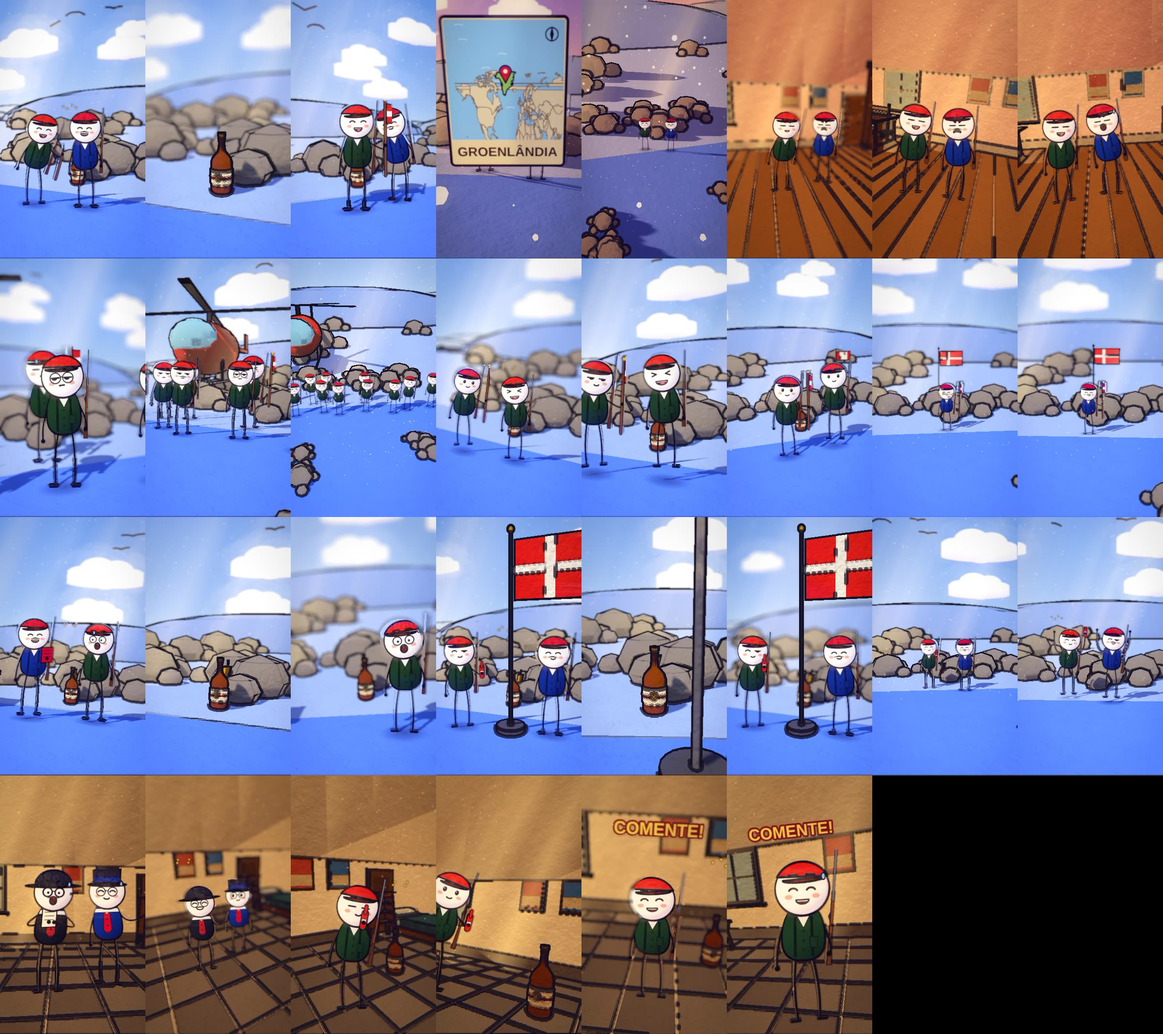
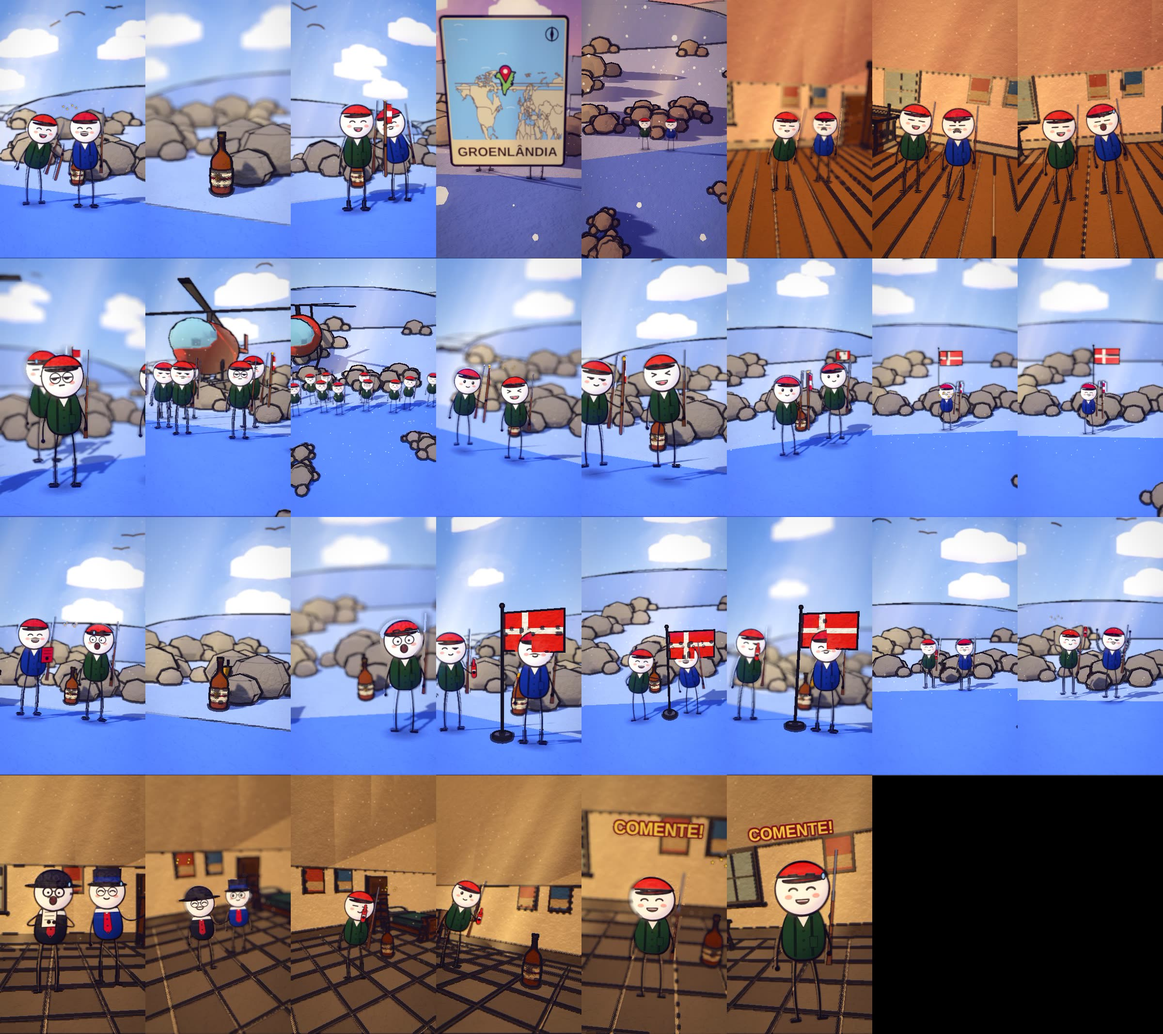
Banquinho b8 enquadramento automatico
Claude-Session: https://claude.ai/code/session_01HE8Dy3UcXXZZMLa7uzjNJD

Changed region(s): [[0.375, 0.4953, 0.75, 0.7739], [0.25, 0.8049, 0.5, 1.0], [0.3438, 0.7739, 0.375, 0.8049]]

diff --git a/ferramenta-shorts/stories/uisque1984/spec.js b/ferramenta-shorts/stories/uisque1984/spec.js
@@ -20,10 +20,10 @@ const SPEC = {
     S('b4', A[4], A[5] - 1, X, "day", { h: 2.3, d0: 12.1, d1: 11.5, az0: 16, az1: 30, cx: 0.0, cz: -0.6, hero: { hero: 'any', frame: 'medium', minH: 0.07, main: 2 }, trans: 'dissolve', actors: [pp(X, "CAN", 0, -1.0, 1.3, "smile", { over: { hold: "flag" }, pose: 'cheer', inter: { k: 'hop', a: Math.round(A[4] + (A[5] - 1 - (A[4])) * 0.12), b: Math.round(A[4] + (A[5] - 1 - (A[4])) * 0.82), dir: 1, n: 2, ph: 0 } }), pp(X, "CAN", 1, 1.0, 1.0, "laugh", { pose: 'cheer', inter: { k: 'hop', a: Math.round(A[4] + (A[5] - 1 - (A[4])) * 0.2), b: Math.round(A[4] + (A[5] - 1 - (A[4])) * 0.9), dir: -1, n: 2, ph: 3.14 } })], props: [{ asset: "kit/bandeira_canada", at: [X + 7.0, -14.0], s: 0.9, fixo: true, drop: false }, { asset: "kit/whisky", at: [X + 0.0, -1.2], s: 1.2, fixo: true, drop: false }, { asset: "kit/tequila_bolt", at: [X + 0.0, -2.3], s: 1.0, drop: false }], fx: [{ k: 'stars', a: A[4] + 6, b: A[4] + 40, at: [X + 0.0, DK + 1.6, -0.7], s: 0.8 }, { k: 'birds', a: A[4], b: A[5] - 1, at: [X, DK + 6.0, -30], n: 5, dir: 1, off: 8 }] }),
     { ...S('b5', A[5], A[6] - 1, X, "day", { h: 2.4, d0: 21.0, d1: 20.0, el: 11, fov: 46, cx: 0.0, cz: -2.0, hero: { hero: 'none', wide: true }, vary: false, nocut: true, trans: 'dissolve', actors: [_MA(pp(X, "DIN", 0, 0.0, -0.4, "smug", { over: { hold: "flag" } }), { gests: [[WS(77) - 8, WS(77) + 46, 'point']] })], props: [{ asset: "kit/bandeira_dinamarca", at: [X + 0.0, -8.9], s: 1.2, fixo: true, drop: false }], fx: [{ k: 'birds', a: A[5], b: A[6] - 1, at: [X, DK + 7.5, -30], n: 6, dir: 1, off: 15 }, { k: "stars", a: A[5] + 30, b: A[5] + 56, at: [X, DK + 0.5, 1.2], s: 1.1 }] }), nocut: true },
     S('b6', A[6], Math.round(A[6] + (A[7] - 1 + 1 - (A[6])) * 0.36) - 1, X, "day", { h: 2.3, d0: 12.1, d1: 11.5, az0: -14, az1: 4, cx: 0.0, cz: -0.6, hero: { hero: 'any', frame: 'medium', minH: 0.07, main: 2 }, trans: 'dissolve', actors: [pp(X, "DIN", 0, -1.0, 1.3, "grin", { over: { hold: "paper" }, inter: { k: 'step', a: Math.round(A[6] + (A[7] - 1 - (A[6])) * 0.12), b: Math.round(A[6] + (A[7] - 1 - (A[6])) * 0.82), dir: 1, n: 2, ph: 0 } }), pp(X, "CAN", 0, 1.0, 1.0, "shock", { pose: 'react', inter: { k: 'nod', a: Math.round(A[6] + (A[7] - 1 - (A[6])) * 0.2), b: Math.round(A[6] + (A[7] - 1 - (A[6])) * 0.9), dir: -1, n: 2, ph: 3.14 } })], props: [{ asset: "kit/whisky", at: [X + 0.0, -1.2], s: 1.2, fixo: true, drop: false }, { asset: "mk/Crate_Metal", at: [X + -3.1, 0.2], s: 1.1 }, { asset: "kit/tequila_bolt", at: [X + 0.0, -2.3], s: 1.0, drop: false }], fx: [{ k: 'stars', a: A[6] + 6, b: A[6] + 40, at: [X + 0.0, DK + 1.6, -0.7], s: 0.8 }, { k: 'birds', a: A[6], b: A[7] - 1, at: [X, DK + 4.5, -30], n: 4, dir: -1, off: 8 }] }), { ...S('b6_d', Math.round(A[6] + (A[7] - 1 + 1 - (A[6])) * 0.36), Math.round(A[6] + (A[7] - 1 + 1 - (A[6])) * 0.6) - 1, X, "day", { h: 2.3, d0: 12.1, d1: 11.5, az0: -14, az1: 4, cx: 0.0, cz: -0.6, hero: { hero: 'none', detalhe: true }, trans: 'cut', actors: [pp(X, "DIN", 0, -1.0, 1.3, "grin", { over: { hold: "paper" } }), pp(X, "CAN", 0, 1.0, 1.0, "shock", { pose: 'react' })], props: [{ asset: "kit/whisky", at: [X + 0.0, -1.2], s: 1.2, drop: false, fixo: true, drop: false }, { asset: "mk/Crate_Metal", at: [X + -3.1, 0.2], s: 1.1, drop: false }, { asset: "kit/tequila_bolt", at: [X + 0.0, -2.3], s: 1.0, drop: false }], fx: [{ k: 'stars', a: A[6] + 6, b: A[6] + 40, at: [X + 0.0, DK + 1.6, -0.7], s: 0.8 }, { k: 'birds', a: A[6], b: A[7] - 1, at: [X, DK + 4.5, -30], n: 4, dir: -1, off: 8 }] }), cam: [{ f: Math.round(A[6] + (A[7] - 1 + 1 - (A[6])) * 0.36), at: [X + 0.0, DK + 0.9, -1.2], d: 4.2, az: -14, el: 10, fov: 44 }, { f: Math.round(A[6] + (A[7] - 1 + 1 - (A[6])) * 0.6) - 1, at: [X + 0.0, DK + 0.9, -1.2], d: 3.4, az: -8, el: 9, fov: 44 }], nocut: true, vary: false, glide: true, glideN: 34 }, { ...S('b6_v', Math.round(A[6] + (A[7] - 1 + 1 - (A[6])) * 0.6), A[7] - 1, X, "day", { h: 2.3, d0: 12.1, d1: 11.5, az0: -14, az1: 4, cx: 0.0, cz: -0.6, hero: { hero: 'any', frame: 'medium', minH: 0.07, main: 2 }, trans: 'cut', actors: [pp(X, "DIN", 0, -1.0, 1.3, "grin", { over: { hold: "paper" }, inter: { k: 'step', a: Math.round(A[6] + (A[7] - 1 - (A[6])) * 0.12), b: Math.round(A[6] + (A[7] - 1 - (A[6])) * 0.82), dir: 1, n: 2, ph: 0 } }), pp(X, "CAN", 0, 1.0, 1.0, "shock", { pose: 'react', inter: { k: 'nod', a: Math.round(A[6] + (A[7] - 1 - (A[6])) * 0.2), b: Math.round(A[6] + (A[7] - 1 - (A[6])) * 0.9), dir: -1, n: 2, ph: 3.14 } })], props: [{ asset: "kit/whisky", at: [X + 0.0, -1.2], s: 1.2, drop: false, fixo: true, drop: false }, { asset: "mk/Crate_Metal", at: [X + -3.1, 0.2], s: 1.1, drop: false }, { asset: "kit/tequila_bolt", at: [X + 0.0, -2.3], s: 1.0, drop: false }], fx: [{ k: 'stars', a: A[6] + 6, b: A[6] + 40, at: [X + 0.0, DK + 1.6, -0.7], s: 0.8 }, { k: 'birds', a: A[6], b: A[7] - 1, at: [X, DK + 4.5, -30], n: 4, dir: -1, off: 8 }] }), glide: true, glideN: 34 },
-    S('b7', A[7], Math.round(A[7] + (A[8] - 1 + 1 - (A[7])) * 0.36) - 1, X, "day", { h: 2.5, d0: 12.1, d1: 11.5, az0: 24, az1: 10, cx: 0.0, cz: -0.6, vary: false, hero: { hero: 'any', frame: 'medium', minH: 0.07, main: 2 }, trans: 'dissolve', actors: [_MA(pp(X, "CAN", 0, -1.0, 1.3, "smug", { over: { hold: "bottle" }, inter: { k: 'lean', a: Math.round(A[7] + (A[8] - 1 - (A[7])) * 0.12), b: Math.round(A[7] + (A[8] - 1 - (A[7])) * 0.82), dir: 1, n: 2, ph: 0 } }), { gests: [[WS(101) - 8, Math.max(WS(101) + 14, WS(104) - 5), 'point'], [WS(104) - 8, WS(104) + 46, 'reach']] }), pp(X, "DIN", 0, 1.0, 1.0, "smug", { pose: 'talk', inter: { k: 'lean', a: Math.round(A[7] + (A[8] - 1 - (A[7])) * 0.2), b: Math.round(A[7] + (A[8] - 1 - (A[7])) * 0.9), dir: -1, n: 2, ph: 3.14 } })], props: [{ asset: "kit/bandeira_dinamarca", at: [X + 0.6, 1.0], s: 1.5, fixo: true, drop: false }, { asset: "kit/whisky", at: [X + 0.0, -1.2], s: 1.2, fixo: true, drop: false }, { asset: "kit/tequila_bolt", at: [X + 0.0, -2.3], s: 1.0, drop: false }], fx: [{ k: 'stars', a: A[7] + 6, b: A[7] + 40, at: [X + 0.0, DK + 1.6, -0.7], s: 0.8 }] }), { ...S('b7_d', Math.round(A[7] + (A[8] - 1 + 1 - (A[7])) * 0.36), Math.round(A[7] + (A[8] - 1 + 1 - (A[7])) * 0.6) - 1, X, "day", { h: 2.5, d0: 12.1, d1: 11.5, az0: 24, az1: 10, cx: 0.0, cz: -0.6, vary: false, hero: { hero: 'none', detalhe: true }, trans: 'cut', actors: [_MA(pp(X, "CAN", 0, -1.0, 1.3, "smug", { over: { hold: "bottle" } }), { gests: [[WS(101) - 8, Math.max(WS(101) + 14, WS(104) - 5), 'point'], [WS(104) - 8, WS(104) + 46, 'reach']] }), pp(X, "DIN", 0, 1.0, 1.0, "smug", { pose: 'stand' })], props: [{ asset: "kit/bandeira_dinamarca", at: [X + 0.6, 1.0], s: 1.5, drop: false, fixo: true, drop: false }, { asset: "kit/whisky", at: [X + 0.0, -1.2], s: 1.2, drop: false, fixo: true, drop: false }, { asset: "kit/tequila_bolt", at: [X + 0.0, -2.3], s: 1.0, drop: false }], fx: [{ k: 'stars', a: A[7] + 6, b: A[7] + 40, at: [X + 0.0, DK + 1.6, -0.7], s: 0.8 }] }), cam: [{ f: Math.round(A[7] + (A[8] - 1 + 1 - (A[7])) * 0.36), at: [X + 0.0, DK + 0.9, -1.2], d: 4.2, az: -14, el: 10, fov: 44 }, { f: Math.round(A[7] + (A[8] - 1 + 1 - (A[7])) * 0.6) - 1, at: [X + 0.0, DK + 0.9, -1.2], d: 3.4, az: -8, el: 9, fov: 44 }], nocut: true, vary: false, glide: true, glideN: 34 }, { ...S('b7_v', Math.round(A[7] + (A[8] - 1 + 1 - (A[7])) * 0.6), A[8] - 1, X, "day", { h: 2.5, d0: 12.1, d1: 11.5, az0: 24, az1: 10, cx: 0.0, cz: -0.6, vary: false, hero: { hero: 'any', frame: 'medium', minH: 0.07, main: 2 }, trans: 'cut', actors: [_MA(pp(X, "CAN", 0, -1.0, 1.3, "smug", { over: { hold: "bottle" }, inter: { k: 'lean', a: Math.round(A[7] + (A[8] - 1 - (A[7])) * 0.12), b: Math.round(A[7] + (A[8] - 1 - (A[7])) * 0.82), dir: 1, n: 2, ph: 0 } }), { gests: [[WS(101) - 8, Math.max(WS(101) + 14, WS(104) - 5), 'point'], [WS(104) - 8, WS(104) + 46, 'reach']] }), pp(X, "DIN", 0, 1.0, 1.0, "smug", { pose: 'talk', inter: { k: 'lean', a: Math.round(A[7] + (A[8] - 1 - (A[7])) * 0.2), b: Math.round(A[7] + (A[8] - 1 - (A[7])) * 0.9), dir: -1, n: 2, ph: 3.14 } })], props: [{ asset: "kit/bandeira_dinamarca", at: [X + 0.6, 1.0], s: 1.5, drop: false, fixo: true, drop: false }, { asset: "kit/whisky", at: [X + 0.0, -1.2], s: 1.2, drop: false, fixo: true, drop: false }, { asset: "kit/tequila_bolt", at: [X + 0.0, -2.3], s: 1.0, drop: false }], fx: [{ k: 'stars', a: A[7] + 6, b: A[7] + 40, at: [X + 0.0, DK + 1.6, -0.7], s: 0.8 }] }), glide: true, glideN: 34 },
+    S('b7', A[7], A[8] - 1, X, "day", { h: 2.5, d0: 12.1, d1: 11.5, az0: 24, az1: 10, cx: 0.0, cz: -0.6, vary: false, hero: { hero: 'any', frame: 'medium', minH: 0.07, main: 2 }, trans: 'dissolve', actors: [_MA(pp(X, "CAN", 0, -1.0, 1.3, "smug", { over: { hold: "bottle" }, inter: { k: 'lean', a: Math.round(A[7] + (A[8] - 1 - (A[7])) * 0.12), b: Math.round(A[7] + (A[8] - 1 - (A[7])) * 0.82), dir: 1, n: 2, ph: 0 } }), { gests: [[WS(101) - 8, Math.max(WS(101) + 14, WS(104) - 5), 'point'], [WS(104) - 8, WS(104) + 46, 'reach']] }), pp(X, "DIN", 0, 1.0, 1.0, "smug", { pose: 'talk', inter: { k: 'lean', a: Math.round(A[7] + (A[8] - 1 - (A[7])) * 0.2), b: Math.round(A[7] + (A[8] - 1 - (A[7])) * 0.9), dir: -1, n: 2, ph: 3.14 } })], props: [{ asset: "kit/bandeira_dinamarca", at: [X + 0.6, 1.0], s: 0.9, fixo: true, drop: false }, { asset: "kit/whisky", at: [X + 0.0, -1.2], s: 1.2, fixo: true, drop: false }, { asset: "kit/tequila_bolt", at: [X + 0.0, -2.3], s: 1.0, drop: false }], fx: [{ k: 'stars', a: A[7] + 6, b: A[7] + 40, at: [X + 0.0, DK + 1.6, -0.7], s: 0.8 }] }),
     { ...S('b8', A[8], A[9] - 1, X, "day", { h: 2.4, d0: 20, d1: 16, el: 5, fov: 46, cx: 0.0, cz: -1.5, hero: { hero: 'none', wide: true }, vary: false, nocut: true, trans: 'dissolve', actors: [_MA(pp(X, "CAN", 0, -1.0, -0.4, "smug", { over: { hold: "bottle" } }), { gests: [[WS(122) - 8, WS(122) + 46, 'up']] }), _MA(pp(X, "DIN", 0, 1.0, 0.2, "smug"), { gests: [[WS(122) - 6, WS(122) + 46, 'up']] })], props: [{ asset: "kit/whisky", at: [X + 0.0, -2.3], s: 1.0, drop: false }], fx: [{ k: 'birds', a: A[8], b: A[9] - 1, at: [X, DK + 7.5, -30], n: 6, dir: 1, off: 8 }, { k: "stars", a: WS(122) + 3, b: WS(122) + 30, at: [X + -1.0, DK + 2.6, 1.7], s: 0.6 }] }), nocut: true },
     S('b9', A[9], A[10] - 1, X_hall, "study", { h: 2.3, d0: 7.3, d1: 6.86, fov: 57.0, az0: -13, az1: -7, vary: false, hero: { hero: 'any', frame: 'medium', minH: 0.07, main: 2 }, trans: 'dissolve', actors: [_MA(pp(X_hall, "PRE", 0, -1.0, 1.3, "relief", { over: { hold: "paper" }, inter: { k: 'step', a: Math.round(A[9] + (A[10] - 1 - (A[9])) * 0.12), b: Math.round(A[9] + (A[10] - 1 - (A[9])) * 0.82), dir: 1, n: 2, ph: 0 } }), { gests: [[WS(135) - 8, WS(135) + 46, 'point']] }), pp(X_hall, "MIN", 0, 1.0, 1.0, "smile", { pose: 'talk', inter: { k: 'nod', a: Math.round(A[9] + (A[10] - 1 - (A[9])) * 0.2), b: Math.round(A[9] + (A[10] - 1 - (A[9])) * 0.9), dir: -1, n: 2, ph: 3.14 } })], props: [{ asset: "kit/room_europa_stone", at: [X_hall, 0], s: 1, drop: false }, { asset: "mk/Cabinet", at: [X_hall + -7.2, -3.3], s: 2.3, drop: false }, { asset: "mk/Bed_Twin1", at: [X_hall + 7.0, -2.4], s: 2.1, drop: false }, { asset: "mk/Nightstand_Shelf", at: [X_hall + 4.6, -3.2], s: 2.2, drop: false }, { asset: "mk/Stool", at: [X_hall + -4.8, -2.8], s: 2.2, drop: false }, { asset: "mk/Crate_Metal", at: [X_hall + -7.4, 0.8], s: 2.0, drop: false }], fx: [{ k: "stars", a: WS(135) + 3, b: WS(135) + 30, at: [X_hall + -1.0, DK + 2.6, 1.7], s: 0.6 }] }),
-    S('b10', A[10], A[11] - 1, X_hall, "study", { h: 2.5, d0: 7.2, d1: 6.77, fov: 50.5, az0: -2, az1: 3, cx: 1.2, cz: 0.1, hero: { hero: 'any', frame: 'medium', minH: 0.07, main: 1 }, trans: 'dissolve', actors: [pp(X_hall, "CAN", 0, 0.0, 1.3, "smile", { over: { hold: "bottle" }, pose: 'cheer' })], props: [{ asset: "kit/room_europa_stone", at: [X_hall, 0], s: 1, drop: false }, { asset: "mk/Cabinet", at: [X_hall + -7.2, -3.3], s: 2.3, drop: false }, { asset: "mk/Bed_Twin1", at: [X_hall + 7.0, -2.4], s: 2.1, drop: false }, { asset: "mk/Nightstand_Shelf", at: [X_hall + 4.6, -3.2], s: 2.2, drop: false }, { asset: "mk/Stool", at: [X_hall + -4.8, -2.8], s: 2.2, drop: false }, { asset: "mk/Crate_Metal", at: [X_hall + -7.4, 0.8], s: 2.0, drop: false }, { asset: "kit/whisky", at: [X_hall + 2.4, 0.2], s: 1.3, fixo: true, drop: false }], fx: [{ k: 'stars', a: A[10] + 6, b: A[10] + 40, at: [X_hall + 2.4, DK + 1.6, 0.7], s: 0.8 }] }),
+    S('b10', A[10], A[11] - 1, X_hall, "study", { h: 2.5, d0: 7.2, d1: 6.77, fov: 65.2, az0: -2, az1: 3, cx: 1.2, cz: 0.1, hero: { hero: 'any', frame: 'medium', minH: 0.07, main: 1 }, trans: 'dissolve', actors: [pp(X_hall, "CAN", 0, 0.0, 1.3, "smile", { over: { hold: "bottle" }, pose: 'cheer' })], props: [{ asset: "kit/room_europa_stone", at: [X_hall, 0], s: 1, drop: false }, { asset: "mk/Cabinet", at: [X_hall + -7.2, -3.3], s: 2.3, drop: false }, { asset: "mk/Bed_Twin1", at: [X_hall + 7.0, -2.4], s: 2.1, drop: false }, { asset: "mk/Nightstand_Shelf", at: [X_hall + 4.6, -3.2], s: 2.2, drop: false }, { asset: "mk/Stool", at: [X_hall + -4.8, -2.8], s: 2.2, drop: false }, { asset: "mk/Crate_Metal", at: [X_hall + -7.4, 0.8], s: 2.0, drop: false }, { asset: "kit/whisky", at: [X_hall + 2.4, 0.2], s: 1.3, fixo: true, drop: false }], fx: [{ k: 'stars', a: A[10] + 6, b: A[10] + 40, at: [X_hall + 2.4, DK + 1.6, 0.7], s: 0.8 }] }),
     S('b11', A[11], A[12] - 1, X_hall, "study", { h: 2.4, d0: 6.4, d1: 5.6, az0: -10, az1: -5, hero: { hero: 'any', frame: 'medium', minH: 0.07, main: 1 }, trans: 'dissolve', actors: [pp(X_hall, "CAN", 0, 0.0, 1.3, "grin", { pose: 'talk' })], props: [{ asset: "kit/room_europa_stone", at: [X_hall, 0], s: 1, drop: false }, { asset: "mk/Cabinet", at: [X_hall + -7.2, -3.3], s: 2.3, drop: false }, { asset: "mk/Bed_Twin1", at: [X_hall + 7.0, -2.4], s: 2.1, drop: false }, { asset: "mk/Nightstand_Shelf", at: [X_hall + 4.6, -3.2], s: 2.2, drop: false }, { asset: "mk/Stool", at: [X_hall + -4.8, -2.8], s: 2.2, drop: false }, { asset: "mk/Crate_Metal", at: [X_hall + -7.4, 0.8], s: 2.0, drop: false }, { asset: "kit/whisky", at: [X_hall + 1.7, -0.5], s: 1.3, drop: false }], fx: [{ k: 'stars', a: A[11] + 6, b: A[11] + 40, at: [X_hall + 1.7, DK + 1.6, 0.0], s: 0.8 }, txt(X_hall, WS(154, -2), A[12] - 1, "COMENTE!", '#e8c45a', '#7a1c1c', 4.6, { s: 1.5, up: 0.55 })] })
   ],
 };

diff --git a/ferramenta-shorts/web/story.js b/ferramenta-shorts/web/story.js
@@ -41,10 +41,10 @@ const SPEC = {
     S('b4', A[4], A[5] - 1, X, "day", { h: 2.3, d0: 12.1, d1: 11.5, az0: 16, az1: 30, cx: 0.0, cz: -0.6, hero: { hero: 'any', frame: 'medium', minH: 0.07, main: 2 }, trans: 'dissolve', actors: [pp(X, "CAN", 0, -1.0, 1.3, "smile", { over: { hold: "flag" }, pose: 'cheer', inter: { k: 'hop', a: Math.round(A[4] + (A[5] - 1 - (A[4])) * 0.12), b: Math.round(A[4] + (A[5] - 1 - (A[4])) * 0.82), dir: 1, n: 2, ph: 0 } }), pp(X, "CAN", 1, 1.0, 1.0, "laugh", { pose: 'cheer', inter: { k: 'hop', a: Math.round(A[4] + (A[5] - 1 - (A[4])) * 0.2), b: Math.round(A[4] + (A[5] - 1 - (A[4])) * 0.9), dir: -1, n: 2, ph: 3.14 } })], props: [{ asset: "kit/bandeira_canada", at: [X + 7.0, -14.0], s: 0.9, fixo: true, drop: false }, { asset: "kit/whisky", at: [X + 0.0, -1.2], s: 1.2, fixo: true, drop: false }, { asset: "kit/tequila_bolt", at: [X + 0.0, -2.3], s: 1.0, drop: false }], fx: [{ k: 'stars', a: A[4] + 6, b: A[4] + 40, at: [X + 0.0, DK + 1.6, -0.7], s: 0.8 }, { k: 'birds', a: A[4], b: A[5] - 1, at: [X, DK + 6.0, -30], n: 5, dir: 1, off: 8 }] }),
     { ...S('b5', A[5], A[6] - 1, X, "day", { h: 2.4, d0: 21.0, d1: 20.0, el: 11, fov: 46, cx: 0.0, cz: -2.0, hero: { hero: 'none', wide: true }, vary: false, nocut: true, trans: 'dissolve', actors: [_MA(pp(X, "DIN", 0, 0.0, -0.4, "smug", { over: { hold: "flag" } }), { gests: [[WS(77) - 8, WS(77) + 46, 'point']] })], props: [{ asset: "kit/bandeira_dinamarca", at: [X + 0.0, -8.9], s: 1.2, fixo: true, drop: false }], fx: [{ k: 'birds', a: A[5], b: A[6] - 1, at: [X, DK + 7.5, -30], n: 6, dir: 1, off: 15 }, { k: "stars", a: A[5] + 30, b: A[5] + 56, at: [X, DK + 0.5, 1.2], s: 1.1 }] }), nocut: true },
     S('b6', A[6], Math.round(A[6] + (A[7] - 1 + 1 - (A[6])) * 0.36) - 1, X, "day", { h: 2.3, d0: 12.1, d1: 11.5, az0: -14, az1: 4, cx: 0.0, cz: -0.6, hero: { hero: 'any', frame: 'medium', minH: 0.07, main: 2 }, trans: 'dissolve', actors: [pp(X, "DIN", 0, -1.0, 1.3, "grin", { over: { hold: "paper" }, inter: { k: 'step', a: Math.round(A[6] + (A[7] - 1 - (A[6])) * 0.12), b: Math.round(A[6] + (A[7] - 1 - (A[6])) * 0.82), dir: 1, n: 2, ph: 0 } }), pp(X, "CAN", 0, 1.0, 1.0, "shock", { pose: 'react', inter: { k: 'nod', a: Math.round(A[6] + (A[7] - 1 - (A[6])) * 0.2), b: Math.round(A[6] + (A[7] - 1 - (A[6])) * 0.9), dir: -1, n: 2, ph: 3.14 } })], props: [{ asset: "kit/whisky", at: [X + 0.0, -1.2], s: 1.2, fixo: true, drop: false }, { asset: "mk/Crate_Metal", at: [X + -3.1, 0.2], s: 1.1 }, { asset: "kit/tequila_bolt", at: [X + 0.0, -2.3], s: 1.0, drop: false }], fx: [{ k: 'stars', a: A[6] + 6, b: A[6] + 40, at: [X + 0.0, DK + 1.6, -0.7], s: 0.8 }, { k: 'birds', a: A[6], b: A[7] - 1, at: [X, DK + 4.5, -30], n: 4, dir: -1, off: 8 }] }), { ...S('b6_d', Math.round(A[6] + (A[7] - 1 + 1 - (A[6])) * 0.36), Math.round(A[6] + (A[7] - 1 + 1 - (A[6])) * 0.6) - 1, X, "day", { h: 2.3, d0: 12.1, d1: 11.5, az0: -14, az1: 4, cx: 0.0, cz: -0.6, hero: { hero: 'none', detalhe: true }, trans: 'cut', actors: [pp(X, "DIN", 0, -1.0, 1.3, "grin", { over: { hold: "paper" } }), pp(X, "CAN", 0, 1.0, 1.0, "shock", { pose: 'react' })], props: [{ asset: "kit/whisky", at: [X + 0.0, -1.2], s: 1.2, drop: false, fixo: true, drop: false }, { asset: "mk/Crate_Metal", at: [X + -3.1, 0.2], s: 1.1, drop: false }, { asset: "kit/tequila_bolt", at: [X + 0.0, -2.3], s: 1.0, drop: false }], fx: [{ k: 'stars', a: A[6] + 6, b: A[6] + 40, at: [X + 0.0, DK + 1.6, -0.7], s: 0.8 }, { k: 'birds', a: A[6], b: A[7] - 1, at: [X, DK + 4.5, -30], n: 4, dir: -1, off: 8 }] }), cam: [{ f: Math.round(A[6] + (A[7] - 1 + 1 - (A[6])) * 0.36), at: [X + 0.0, DK + 0.9, -1.2], d: 4.2, az: -14, el: 10, fov: 44 }, { f: Math.round(A[6] + (A[7] - 1 + 1 - (A[6])) * 0.6) - 1, at: [X + 0.0, DK + 0.9, -1.2], d: 3.4, az: -8, el: 9, fov: 44 }], nocut: true, vary: false, glide: true, glideN: 34 }, { ...S('b6_v', Math.round(A[6] + (A[7] - 1 + 1 - (A[6])) * 0.6), A[7] - 1, X, "day", { h: 2.3, d0: 12.1, d1: 11.5, az0: -14, az1: 4, cx: 0.0, cz: -0.6, hero: { hero: 'any', frame: 'medium', minH: 0.07, main: 2 }, trans: 'cut', actors: [pp(X, "DIN", 0, -1.0, 1.3, "grin", { over: { hold: "paper" }, inter: { k: 'step', a: Math.round(A[6] + (A[7] - 1 - (A[6])) * 0.12), b: Math.round(A[6] + (A[7] - 1 - (A[6])) * 0.82), dir: 1, n: 2, ph: 0 } }), pp(X, "CAN", 0, 1.0, 1.0, "shock", { pose: 'react', inter: { k: 'nod', a: Math.round(A[6] + (A[7] - 1 - (A[6])) * 0.2), b: Math.round(A[6] + (A[7] - 1 - (A[6])) * 0.9), dir: -1, n: 2, ph: 3.14 } })], props: [{ asset: "kit/whisky", at: [X + 0.0, -1.2], s: 1.2, drop: false, fixo: true, drop: false }, { asset: "mk/Crate_Metal", at: [X + -3.1, 0.2], s: 1.1, drop: false }, { asset: "kit/tequila_bolt", at: [X + 0.0, -2.3], s: 1.0, drop: false }], fx: [{ k: 'stars', a: A[6] + 6, b: A[6] + 40, at: [X + 0.0, DK + 1.6, -0.7], s: 0.8 }, { k: 'birds', a: A[6], b: A[7] - 1, at: [X, DK + 4.5, -30], n: 4, dir: -1, off: 8 }] }), glide: true, glideN: 34 },
-    S('b7', A[7], Math.round(A[7] + (A[8] - 1 + 1 - (A[7])) * 0.36) - 1, X, "day", { h: 2.5, d0: 12.1, d1: 11.5, az0: 24, az1: 10, cx: 0.0, cz: -0.6, vary: false, hero: { hero: 'any', frame: 'medium', minH: 0.07, main: 2 }, trans: 'dissolve', actors: [_MA(pp(X, "CAN", 0, -1.0, 1.3, "smug", { over: { hold: "bottle" }, inter: { k: 'lean', a: Math.round(A[7] + (A[8] - 1 - (A[7])) * 0.12), b: Math.round(A[7] + (A[8] - 1 - (A[7])) * 0.82), dir: 1, n: 2, ph: 0 } }), { gests: [[WS(101) - 8, Math.max(WS(101) + 14, WS(104) - 5), 'point'], [WS(104) - 8, WS(104) + 46, 'reach']] }), pp(X, "DIN", 0, 1.0, 1.0, "smug", { pose: 'talk', inter: { k: 'lean', a: Math.round(A[7] + (A[8] - 1 - (A[7])) * 0.2), b: Math.round(A[7] + (A[8] - 1 - (A[7])) * 0.9), dir: -1, n: 2, ph: 3.14 } })], props: [{ asset: "kit/bandeira_dinamarca", at: [X + 0.6, 1.0], s: 1.5, fixo: true, drop: false }, { asset: "kit/whisky", at: [X + 0.0, -1.2], s: 1.2, fixo: true, drop: false }, { asset: "kit/tequila_bolt", at: [X + 0.0, -2.3], s: 1.0, drop: false }], fx: [{ k: 'stars', a: A[7] + 6, b: A[7] + 40, at: [X + 0.0, DK + 1.6, -0.7], s: 0.8 }] }), { ...S('b7_d', Math.round(A[7] + (A[8] - 1 + 1 - (A[7])) * 0.36), Math.round(A[7] + (A[8] - 1 + 1 - (A[7])) * 0.6) - 1, X, "day", { h: 2.5, d0: 12.1, d1: 11.5, az0: 24, az1: 10, cx: 0.0, cz: -0.6, vary: false, hero: { hero: 'none', detalhe: true }, trans: 'cut', actors: [_MA(pp(X, "CAN", 0, -1.0, 1.3, "smug", { over: { hold: "bottle" } }), { gests: [[WS(101) - 8, Math.max(WS(101) + 14, WS(104) - 5), 'point'], [WS(104) - 8, WS(104) + 46, 'reach']] }), pp(X, "DIN", 0, 1.0, 1.0, "smug", { pose: 'stand' })], props: [{ asset: "kit/bandeira_dinamarca", at: [X + 0.6, 1.0], s: 1.5, drop: false, fixo: true, drop: false }, { asset: "kit/whisky", at: [X + 0.0, -1.2], s: 1.2, drop: false, fixo: true, drop: false }, { asset: "kit/tequila_bolt", at: [X + 0.0, -2.3], s: 1.0, drop: false }], fx: [{ k: 'stars', a: A[7] + 6, b: A[7] + 40, at: [X + 0.0, DK + 1.6, -0.7], s: 0.8 }] }), cam: [{ f: Math.round(A[7] + (A[8] - 1 + 1 - (A[7])) * 0.36), at: [X + 0.0, DK + 0.9, -1.2], d: 4.2, az: -14, el: 10, fov: 44 }, { f: Math.round(A[7] + (A[8] - 1 + 1 - (A[7])) * 0.6) - 1, at: [X + 0.0, DK + 0.9, -1.2], d: 3.4, az: -8, el: 9, fov: 44 }], nocut: true, vary: false, glide: true, glideN: 34 }, { ...S('b7_v', Math.round(A[7] + (A[8] - 1 + 1 - (A[7])) * 0.6), A[8] - 1, X, "day", { h: 2.5, d0: 12.1, d1: 11.5, az0: 24, az1: 10, cx: 0.0, cz: -0.6, vary: false, hero: { hero: 'any', frame: 'medium', minH: 0.07, main: 2 }, trans: 'cut', actors: [_MA(pp(X, "CAN", 0, -1.0, 1.3, "smug", { over: { hold: "bottle" }, inter: { k: 'lean', a: Math.round(A[7] + (A[8] - 1 - (A[7])) * 0.12), b: Math.round(A[7] + (A[8] - 1 - (A[7])) * 0.82), dir: 1, n: 2, ph: 0 } }), { gests: [[WS(101) - 8, Math.max(WS(101) + 14, WS(104) - 5), 'point'], [WS(104) - 8, WS(104) + 46, 'reach']] }), pp(X, "DIN", 0, 1.0, 1.0, "smug", { pose: 'talk', inter: { k: 'lean', a: Math.round(A[7] + (A[8] - 1 - (A[7])) * 0.2), b: Math.round(A[7] + (A[8] - 1 - (A[7])) * 0.9), dir: -1, n: 2, ph: 3.14 } })], props: [{ asset: "kit/bandeira_dinamarca", at: [X + 0.6, 1.0], s: 1.5, drop: false, fixo: true, drop: false }, { asset: "kit/whisky", at: [X + 0.0, -1.2], s: 1.2, drop: false, fixo: true, drop: false }, { asset: "kit/tequila_bolt", at: [X + 0.0, -2.3], s: 1.0, drop: false }], fx: [{ k: 'stars', a: A[7] + 6, b: A[7] + 40, at: [X + 0.0, DK + 1.6, -0.7], s: 0.8 }] }), glide: true, glideN: 34 },
+    S('b7', A[7], A[8] - 1, X, "day", { h: 2.5, d0: 12.1, d1: 11.5, az0: 24, az1: 10, cx: 0.0, cz: -0.6, vary: false, hero: { hero: 'any', frame: 'medium', minH: 0.07, main: 2 }, trans: 'dissolve', actors: [_MA(pp(X, "CAN", 0, -1.0, 1.3, "smug", { over: { hold: "bottle" }, inter: { k: 'lean', a: Math.round(A[7] + (A[8] - 1 - (A[7])) * 0.12), b: Math.round(A[7] + (A[8] - 1 - (A[7])) * 0.82), dir: 1, n: 2, ph: 0 } }), { gests: [[WS(101) - 8, Math.max(WS(101) + 14, WS(104) - 5), 'point'], [WS(104) - 8, WS(104) + 46, 'reach']] }), pp(X, "DIN", 0, 1.0, 1.0, "smug", { pose: 'talk', inter: { k: 'lean', a: Math.round(A[7] + (A[8] - 1 - (A[7])) * 0.2), b: Math.round(A[7] + (A[8] - 1 - (A[7])) * 0.9), dir: -1, n: 2, ph: 3.14 } })], props: [{ asset: "kit/bandeira_dinamarca", at: [X + 0.6, 1.0], s: 0.9, fixo: true, drop: false }, { asset: "kit/whisky", at: [X + 0.0, -1.2], s: 1.2, fixo: true, drop: false }, { asset: "kit/tequila_bolt", at: [X + 0.0, -2.3], s: 1.0, drop: false }], fx: [{ k: 'stars', a: A[7] + 6, b: A[7] + 40, at: [X + 0.0, DK + 1.6, -0.7], s: 0.8 }] }),
     { ...S('b8', A[8], A[9] - 1, X, "day", { h: 2.4, d0: 20, d1: 16, el: 5, fov: 46, cx: 0.0, cz: -1.5, hero: { hero: 'none', wide: true }, vary: false, nocut: true, trans: 'dissolve', actors: [_MA(pp(X, "CAN", 0, -1.0, -0.4, "smug", { over: { hold: "bottle" } }), { gests: [[WS(122) - 8, WS(122) + 46, 'up']] }), _MA(pp(X, "DIN", 0, 1.0, 0.2, "smug"), { gests: [[WS(122) - 6, WS(122) + 46, 'up']] })], props: [{ asset: "kit/whisky", at: [X + 0.0, -2.3], s: 1.0, drop: false }], fx: [{ k: 'birds', a: A[8], b: A[9] - 1, at: [X, DK + 7.5, -30], n: 6, dir: 1, off: 8 }, { k: "stars", a: WS(122) + 3, b: WS(122) + 30, at: [X + -1.0, DK + 2.6, 1.7], s: 0.6 }] }), nocut: true },
     S('b9', A[9], A[10] - 1, X_hall, "study", { h: 2.3, d0: 7.3, d1: 6.86, fov: 57.0, az0: -13, az1: -7, vary: false, hero: { hero: 'any', frame: 'medium', minH: 0.07, main: 2 }, trans: 'dissolve', actors: [_MA(pp(X_hall, "PRE", 0, -1.0, 1.3, "relief", { over: { hold: "paper" }, inter: { k: 'step', a: Math.round(A[9] + (A[10] - 1 - (A[9])) * 0.12), b: Math.round(A[9] + (A[10] - 1 - (A[9])) * 0.82), dir: 1, n: 2, ph: 0 } }), { gests: [[WS(135) - 8, WS(135) + 46, 'point']] }), pp(X_hall, "MIN", 0, 1.0, 1.0, "smile", { pose: 'talk', inter: { k: 'nod', a: Math.round(A[9] + (A[10] - 1 - (A[9])) * 0.2), b: Math.round(A[9] + (A[10] - 1 - (A[9])) * 0.9), dir: -1, n: 2, ph: 3.14 } })], props: [{ asset: "kit/room_europa_stone", at: [X_hall, 0], s: 1, drop: false }, { asset: "mk/Cabinet", at: [X_hall + -7.2, -3.3], s: 2.3, drop: false }, { asset: "mk/Bed_Twin1", at: [X_hall + 7.0, -2.4], s: 2.1, drop: false }, { asset: "mk/Nightstand_Shelf", at: [X_hall + 4.6, -3.2], s: 2.2, drop: false }, { asset: "mk/Stool", at: [X_hall + -4.8, -2.8], s: 2.2, drop: false }, { asset: "mk/Crate_Metal", at: [X_hall + -7.4, 0.8], s: 2.0, drop: false }], fx: [{ k: "stars", a: WS(135) + 3, b: WS(135) + 30, at: [X_hall + -1.0, DK + 2.6, 1.7], s: 0.6 }] }),
-    S('b10', A[10], A[11] - 1, X_hall, "study", { h: 2.5, d0: 7.2, d1: 6.77, fov: 50.5, az0: -2, az1: 3, cx: 1.2, cz: 0.1, hero: { hero: 'any', frame: 'medium', minH: 0.07, main: 1 }, trans: 'dissolve', actors: [pp(X_hall, "CAN", 0, 0.0, 1.3, "smile", { over: { hold: "bottle" }, pose: 'cheer' })], props: [{ asset: "kit/room_europa_stone", at: [X_hall, 0], s: 1, drop: false }, { asset: "mk/Cabinet", at: [X_hall + -7.2, -3.3], s: 2.3, drop: false }, { asset: "mk/Bed_Twin1", at: [X_hall + 7.0, -2.4], s: 2.1, drop: false }, { asset: "mk/Nightstand_Shelf", at: [X_hall + 4.6, -3.2], s: 2.2, drop: false }, { asset: "mk/Stool", at: [X_hall + -4.8, -2.8], s: 2.2, drop: false }, { asset: "mk/Crate_Metal", at: [X_hall + -7.4, 0.8], s: 2.0, drop: false }, { asset: "kit/whisky", at: [X_hall + 2.4, 0.2], s: 1.3, fixo: true, drop: false }], fx: [{ k: 'stars', a: A[10] + 6, b: A[10] + 40, at: [X_hall + 2.4, DK + 1.6, 0.7], s: 0.8 }] }),
+    S('b10', A[10], A[11] - 1, X_hall, "study", { h: 2.5, d0: 7.2, d1: 6.77, fov: 65.2, az0: -2, az1: 3, cx: 1.2, cz: 0.1, hero: { hero: 'any', frame: 'medium', minH: 0.07, main: 1 }, trans: 'dissolve', actors: [pp(X_hall, "CAN", 0, 0.0, 1.3, "smile", { over: { hold: "bottle" }, pose: 'cheer' })], props: [{ asset: "kit/room_europa_stone", at: [X_hall, 0], s: 1, drop: false }, { asset: "mk/Cabinet", at: [X_hall + -7.2, -3.3], s: 2.3, drop: false }, { asset: "mk/Bed_Twin1", at: [X_hall + 7.0, -2.4], s: 2.1, drop: false }, { asset: "mk/Nightstand_Shelf", at: [X_hall + 4.6, -3.2], s: 2.2, drop: false }, { asset: "mk/Stool", at: [X_hall + -4.8, -2.8], s: 2.2, drop: false }, { asset: "mk/Crate_Metal", at: [X_hall + -7.4, 0.8], s: 2.0, drop: false }, { asset: "kit/whisky", at: [X_hall + 2.4, 0.2], s: 1.3, fixo: true, drop: false }], fx: [{ k: 'stars', a: A[10] + 6, b: A[10] + 40, at: [X_hall + 2.4, DK + 1.6, 0.7], s: 0.8 }] }),
     S('b11', A[11], A[12] - 1, X_hall, "study", { h: 2.4, d0: 6.4, d1: 5.6, az0: -10, az1: -5, hero: { hero: 'any', frame: 'medium', minH: 0.07, main: 1 }, trans: 'dissolve', actors: [pp(X_hall, "CAN", 0, 0.0, 1.3, "grin", { pose: 'talk' })], props: [{ asset: "kit/room_europa_stone", at: [X_hall, 0], s: 1, drop: false }, { asset: "mk/Cabinet", at: [X_hall + -7.2, -3.3], s: 2.3, drop: false }, { asset: "mk/Bed_Twin1", at: [X_hall + 7.0, -2.4], s: 2.1, drop: false }, { asset: "mk/Nightstand_Shelf", at: [X_hall + 4.6, -3.2], s: 2.2, drop: false }, { asset: "mk/Stool", at: [X_hall + -4.8, -2.8], s: 2.2, drop: false }, { asset: "mk/Crate_Metal", at: [X_hall + -7.4, 0.8], s: 2.0, drop: false }, { asset: "kit/whisky", at: [X_hall + 1.7, -0.5], s: 1.3, drop: false }], fx: [{ k: 'stars', a: A[11] + 6, b: A[11] + 40, at: [X_hall + 1.7, DK + 1.6, 0.0], s: 0.8 }, txt(X_hall, WS(154, -2), A[12] - 1, "COMENTE!", '#e8c45a', '#7a1c1c', 4.6, { s: 1.5, up: 0.55 })] })
   ],
 };

diff --git a/ferramenta-shorts/stories/uisque1984/folha2_producao.md b/ferramenta-shorts/stories/uisque1984/folha2_producao.md
@@ -74,8 +74,8 @@ Coordenadas de cada cena para modelagem, animacao e camera, com os RISCOS que o 
 
 ## Cena b7 - Durante anos, os dois lados voltaram lá para trocar bandeira e garrafa...
 - Cenario: arctic | luz: day | clima: limpo
-- Camera: group = plano de grupo (corpo inteiro); angulo muda a cada ~2 s + CLOSE NO OBJETO no meio da cena (vai e volta)
-- Takes: 3 take(s) de ~1,8 s, deslizando de um para o outro: frente -> 3/4 pela direita, mais perto e mais baixo -> 3/4 pela esquerda, mais alto e aberto | no meio: desliza ate o objeto (close), segura ~1,5 s e volta
+- Camera: group = plano de grupo (corpo inteiro); angulo muda a cada ~2 s
+- Takes: 3 take(s) de ~1,8 s, deslizando de um para o outro: frente -> 3/4 pela direita, mais perto e mais baixo -> 3/4 pela esquerda, mais alto e aberto
 - Personagens principais (2): CAN (variante 0, expressao smug); DIN (variante 0, expressao smug)
 - Animacao: conversar | interacao: cochichar
 - Objetos/modelos: kit/bandeira_dinamarca, kit/whisky, kit/tequila_bolt
@@ -136,7 +136,7 @@ kit/bandeira_dinamarca | b7 | pronto | conferir na folha de contato se le bem; s
 
 
 ## Video inteiro
-- Objeto heroi: kit/whisky | grandes momentos: b3, b5 | planos abertos: 4 | mistura: close 11% | medio 63% | aberto 21% | detalhe 6%
+- Objeto heroi: kit/whisky | grandes momentos: b3, b5 | planos abertos: 4 | mistura: close 11% | medio 65% | aberto 21% | detalhe 4%
 - Interacoes: b0 discutir, b2 discutir, b4 pular, b6 entregar, b7 cochichar, b9 entregar
 - RISCOS GERAIS: nenhum
 

diff --git a/ferramenta-shorts/stories/uisque1984/folha2_enquadramento.md b/ferramenta-shorts/stories/uisque1984/folha2_enquadramento.md
@@ -55,7 +55,7 @@ Cada cena: LOCAL, CAMERA, PERSONAGENS, OBJETOS (lugar, tamanho real e na tela, e
 - CAMERA: plano medio, 2 personagens de corpo inteiro; plano medio enquadrando personagens e whisky juntos (camera a 11.5 m)
 - PERSONAGENS: CAN (soldado) na esquerda, expressao smug; DIN (soldado) na direita, expressao smug; sem multidao; acao: cochichar
 - OBJETO kit/whisky: MEIO, centro (objeto principal da cena); tamanho na tela: 32% da altura da tela; estado: PARADO; 1.5 m: entre e um pouco atras dos personagens, mesmo plano, tamanho de uma pessoa
-- OBJETO kit/bandeira_dinamarca: FUNDO, direita; tamanho na tela: 18% da altura da tela; estado: PARADO; 6.2 m de altura x 3.4 m: ATRAS dos personagens, de lado, ocupando a largura do quadro (a ponta pode sair da tela); personagens na frente, menores
+- OBJETO kit/bandeira_dinamarca: MEIO, direita; tamanho na tela: 32% da altura da tela; estado: PARADO; 3.7 m: entre e um pouco atras dos personagens, mesmo plano, tamanho de uma pessoa
 
 ## b8: "A brincadeira ficou famosa como a Guerra do Uísque, e virou piada entre os dois países."
 - LOCAL: campo de gelo e neve (mar congelado, rochas); hora: day

diff --git a/ferramenta-shorts/stories/uisque1984/autocorrecoes.md b/ferramenta-shorts/stories/uisque1984/autocorrecoes.md
@@ -30,3 +30,7 @@
 - b10: personagem CORTADO na borda do quadro (boneco grande saindo da tela) -> enquadramento mais aberto ("group") para o personagem caber inteiro
 - b7: objeto citado "kit/bandeira_dinamarca" nao aparece na tela (escondido, fora do quadro ou pequeno demais) -> objeto trazido para perto do centro (1.6, -1.0)
 - b7: objeto "kit/bandeira_dinamarca" saiu com 0% da altura da tela, a ficha de cena planejou 18% -> objeto na frente dos personagens e maior
+
+## 25/11 15:44 autocorrecao de visibilidade
+- b10: personagem CORTADO na borda do quadro (boneco grande saindo da tela) -> camera mais afastada para o personagem caber inteiro
+- b7: objeto ENORME "kit/bandeira_dinamarca" cobrindo o quadro (mais de 60% da altura da tela): menor ou sem close -> "kit/bandeira_dinamarca" menor e sem close (cobria o quadro)

diff --git a/ferramenta-shorts/stories/uisque1984/plano.md b/ferramenta-shorts/stories/uisque1984/plano.md
@@ -15,5 +15,5 @@ b9 | two | -  | interior, objeto na mao | encena: x_aperta (point) @8 (acao + so
 b10 | group | -  | interior | - | -
 b11 | close | -  | interior, placa: COMENTE! | - | -
 
-Mistura de planos: close 11% | medio 63% | aberto 21% | detalhe 6%  (canal: close 10% | medio+corpo 67% | aberto 19% | detalhe 5-15%)
+Mistura de planos: close 11% | medio 65% | aberto 21% | detalhe 4%  (canal: close 10% | medio+corpo 67% | aberto 19% | detalhe 5-15%)
 Planos abertos: 4 | dentro do padrao do canal

diff --git a/ferramenta-shorts/stories/uisque1984/cronograma.md b/ferramenta-shorts/stories/uisque1984/cronograma.md
@@ -1,6 +1,6 @@
 # CRONOGRAMA - Guerras Inusitadas EP 17 - A Guerra do Uísque
 
-Gerado em 25/11 15:43 | 12 cenas | metricas: acoes_encenadas 100%, acoes_chave_com_efeito 100%, explicacoes_cobertas 100%, cenario_e_epoca_ok 100%
+Gerado em 25/11 15:44 | 12 cenas | metricas: acoes_encenadas 100%, acoes_chave_com_efeito 100%, explicacoes_cobertas 100%, cenario_e_epoca_ok 100%
 
 ## 1. Plano de cenas (o que cada frase vai mostrar)
 
